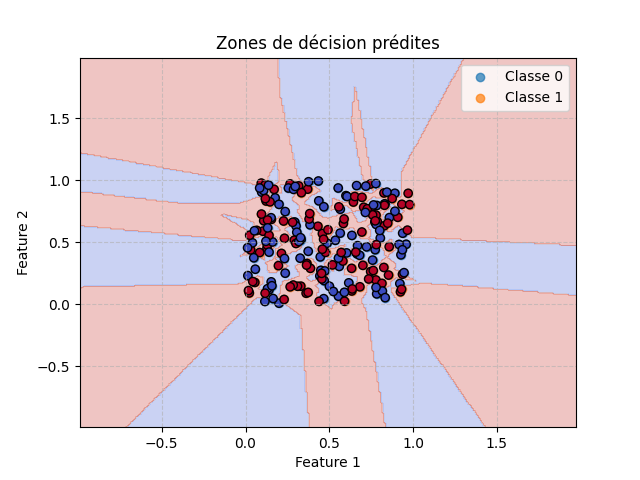
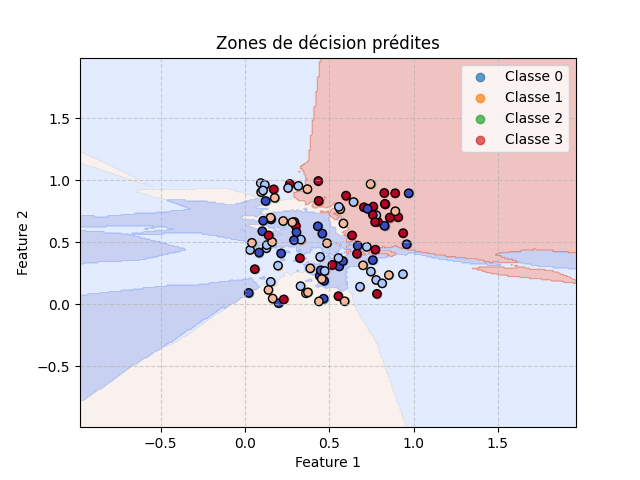
feat: initialisation classe `LinearRegression`

diff --git a/mlkit/neighbors/k_nearest_neighbors.py b/mlkit/neighbors/k_nearest_neighbors.py
@@ -7,9 +7,6 @@ from collections import defaultdict
 from mlkit.utils.model import Model
 from mlkit.datasets.classification import make_classification
 
-class Point(NamedTuple):
-    pass
-
 class KNeighborsClassifier(Model):
     """Use of the KNN algorithm to solve classification problems"""
     
@@ -115,8 +112,8 @@ class KNeighborsClassifier(Model):
         plt.show()
 
 def main():
-    X, y = make_classification(n_classes=2)
-    a = KNeighborsClassifier(n_neighbors=1)
+    X, y = make_classification(n_classes=4, n_samples=100)
+    a = KNeighborsClassifier(n_neighbors=10)
     a.fit(X, y)
     a.plot()
     a.plot_predict(step=0.01)

diff --git a/mlkit/linear_model/linear_regression.py b/mlkit/linear_model/linear_regression.py
@@ -1,0 +1,28 @@
+import numpy as np
+
+from mlkit.utils.model import Model
+
+class LinearRegression(Model):
+    """Solve Linear Problems with LinearRegression"""
+
+    def __init__(self):
+        """
+        Parameters
+        ----------
+        To Complete
+        """
+        super().__init__()
+    
+    def _fit(self, x:np.ndarray, y:np.ndarray):
+        """
+        Find the linear function of the datas
+        
+        Parameters
+        ----------
+        x:np.ndarray
+            Inputs datas
+        y:np.ndarray
+            Result points
+        """
+        self.x = x
+        self.y = y

diff --git a/mlkit/datasets/classification.py b/mlkit/datasets/classification.py
@@ -49,7 +49,7 @@ def make_classification(
     Pour des datasets plus complexes, des options comme la séparation des classes, le 
     bruit ou des clusters multiples peuvent être ajoutées.
     """
-    rng = np.random.default_rng(seed=42)
+    rng = np.random.default_rng(seed=random_state)
     X = rng.random((n_samples, n_features))
     
     y = rng.integers(0, n_classes, size=n_samples)
